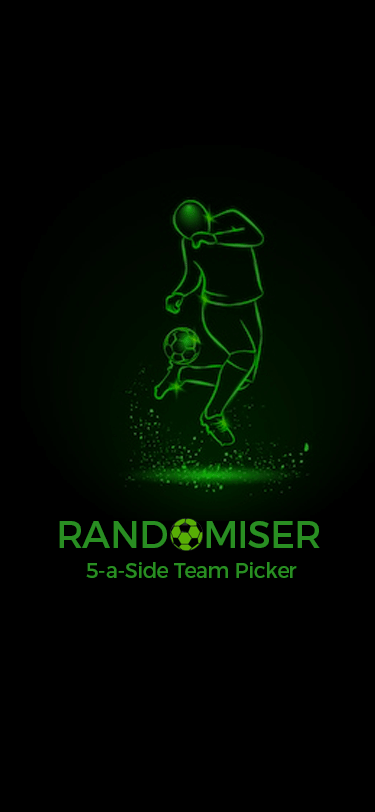
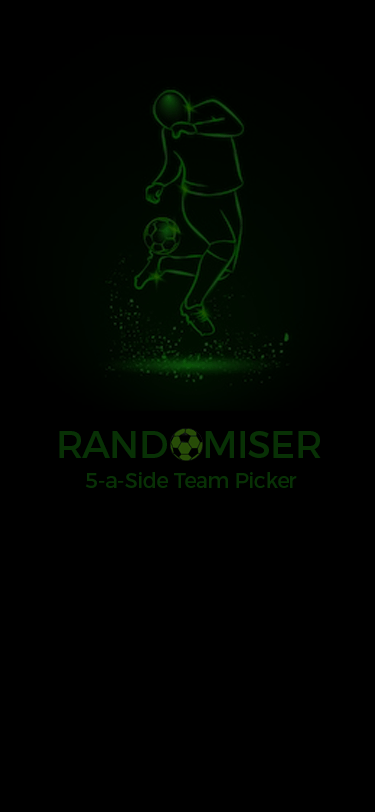
Before attempting animations

Changed region(s): [[0.1467, 0.0924, 0.8507, 0.7081]]

diff --git a/css/styles.css b/css/styles.css
@@ -41,6 +41,16 @@
 /* Landscape */
 /* ----------- iPhone 6, 6S, 7 and 8 ----------- */
 /* Portrait and Landscape */
+@media only screen and (min-device-width: 375px) and (max-device-width: 667px) and (-webkit-min-device-pixel-ratio: 2) {
+  body {
+    background-image: url("scss/devices/bgimages/iphone6.png");
+    background-repeat: no repeat;
+  }
+
+  ol {
+    font-size: 4vh;
+  }
+}
 /* Portrait */
 /* Landscape */
 /* ----------- iPhone 6+, 7+ and 8+ ----------- */
@@ -49,6 +59,11 @@
 /* Landscape */
 /* ----------- iPhone X ----------- */
 /* Portrait and Landscape */
+@media only screen and (min-device-width: 375px) and (max-device-width: 812px) and (-webkit-min-device-pixel-ratio: 3) {
+  body {
+    background-image: url("scss/devices/bgimages/iphoneX.png");
+  }
+}
 /* Portrait */
 /* Landscape */
 /* ----------- iPad 1, 2, Mini and Air ----------- */
@@ -109,28 +124,19 @@ h1 {
 }
 
 ol {
-  font-size: 2em;
-  font: #70DDB4;
+  font-size: 4vh;
   font-family: "Oswald", sans-serif;
-}
-
-.teamOne {
-  background-color: #12563D;
-}
-
-.teamTwo {
-  background-color: #12563D;
 }
 
 .container {
   display: grid;
-  grid-template-columns: 5px 24fr 5px;
-  grid-template-rows: 12vh 2vh 1fr 7vh;
-  grid-template-areas: ". header ." ". input ." ". team ." ". randomiser .";
+  grid-template-columns: auto 24fr auto;
+  grid-template-rows: 3vh 78vh 7vh;
+  grid-template-areas: ". header ." ". team ." ". randomiser .";
 }
 
-.randomiser {
-  grid-area: randomiser;
+header {
+  grid-area: header;
 }
 
 footer {
@@ -168,10 +174,10 @@ main {
   background-color: #2CD697;
   border-radius: 54px 5px 54px 5px;
   border: 0;
-  width: 310px;
+  width: 244px;
   height: 42px;
   color: white;
-  position: relative;
+  bottom: 10px;
   font-size: xx-large;
 }
 .randomiser:hover {
@@ -181,33 +187,40 @@ main {
   background-color: #1CFF49;
 }
 
-html {
-  background-color: white;
+.resetButton {
+  background-color: #FF3A33;
+  background-image: unset;
+  border-radius: 50px;
+  border: 0;
+  width: 50px;
+  height: 50px;
+  color: white;
+  padding: 10px;
+  margin-right: inherit;
+}
+.resetButton:hover {
+  background-color: #2CD697;
+}
+.resetButton:active {
+  background-color: #1CFF49;
 }
 
-body {
+html {
   background-color: black;
-  height: 99vh;
 }
 
 header {
-  grid-area: header;
-  background-color: #333439;
-  margin: 6px;
-  display: grid;
+  display: flex;
   justify-content: center;
-  padding-bottom: 10px;
 }
 
-section {
-  grid-area: input;
+main {
   display: inline-flex;
-  justify-content: center;
-  justify-content: end;
+  justify-content: space-evenly;
 }
 
 .container {
-  margin: 6px;
+  padding: 10px;
 }
 
 .form-group {
@@ -216,26 +229,22 @@ section {
 }
 
 .player-input {
-  width: 268px;
+  width: 250px;
   height: 40px;
   margin-right: 6px;
   font-size: 2em;
+  background-color: lightgrey;
+  padding-left: 18px;
 }
 
 ol {
   color: #70DDB4;
-  background-color: #12563D;
   padding-left: 60px;
 }
 
 footer {
   display: flex;
   justify-content: center;
-  margin: -6px;
-}
-
-main {
-  margin: 6px;
 }
 
 /*# sourceMappingURL=styles.css.map */

diff --git a/css/scss/devices/iphones.scss b/css/scss/devices/iphones.scss
@@ -59,7 +59,14 @@
   and (min-device-width: 375px) 
   and (max-device-width: 667px) 
   and (-webkit-min-device-pixel-ratio: 2) { 
+    body{ 
+      background-image: url("scss/devices/bgimages/iphone6.png");
+      background-repeat: no repeat;
 
+    }
+    ol{
+      font-size: 4vh;
+    }
 }
 
 /* Portrait */
@@ -116,16 +123,18 @@
   and (max-device-width: 812px) 
   and (-webkit-min-device-pixel-ratio: 3) { 
     
-    body{
+    body{ 
+      background-image: url("scss/devices/bgimages/iphoneX.png");
 
-  background-image: url("bgimages/iphonex.png");
+
+      // background-image: no-repeat center/100% url("devices/bgimages/iphoneX.png");
+    }
   // background-size: cover;
   // width: 97vw;
   //   height: 98vh;
   //   background-position: top center;
   // background-repeat: no-repeat;
   // background-color: unset !important;
-    }
 }
 
 /* Portrait */

diff --git a/index.html b/index.html
@@ -15,27 +15,17 @@
 <body class="container">
         <header class="page-header">
           <div class="form-group">
-                <input id="players" class="player-input" placeholder="enter names" />
+                <input id="players" class="player-input" placeholder="...enter names" />
             </div>
             <button id="add" class="btn btn-primary addButton">Add</button>
-
- 
         </header>
         <main id="main" >
-            
-
-
             <ol id="teamList1">
             </ol>
             <ol id="teamList2">
             </ol>
-       
-
         </main>
 
-            <section>
-
-            </section>
 
         <footer>
             <button id="randomiser" class="btn btn-primary randomiser">randomise</button>

diff --git a/css/scss/general_styline.scss b/css/scss/general_styline.scss
@@ -3,7 +3,7 @@ html{
 }
 
 body{
-	background-color: black;
+	// background: no-repeat center/100% url("../devices/bgimages/iphoneX.png");
 }
 
 header{
@@ -14,6 +14,7 @@ header{
 main{
 	display: inline-flex;
 	justify-content: space-evenly;
+
 }
 
 .container {
@@ -26,10 +27,12 @@ main{
 }
 
 .player-input{
-	width: 268px;
+	width: 250px;
 	height: 40px;
 	margin-right: 6px;
 	font-size: 2em;
+	background-color: lightgrey;
+	padding-left: 18px;	
 }
 
 ol{
@@ -43,7 +46,6 @@ ol{
 footer{
 	display: flex;
 	justify-content: center;
-	background-color: black;
 
 
 }

diff --git a/css/scss/button.scss b/css/scss/button.scss
@@ -7,7 +7,7 @@
 	height: 50px;
 	color: white;
 	position: relative;
-	padding: 10px;	
+	padding: 10px;
 	margin-right: inherit;
 
 

diff --git a/css/scss/fonts.scss b/css/scss/fonts.scss
@@ -8,8 +8,7 @@ h1{
 }
 
 ol{
-	font-size: 2em;
-	font: #70DDB4;
+	font-size: 4vh;
 	font-family: 'Oswald', sans-serif;
 }
 
